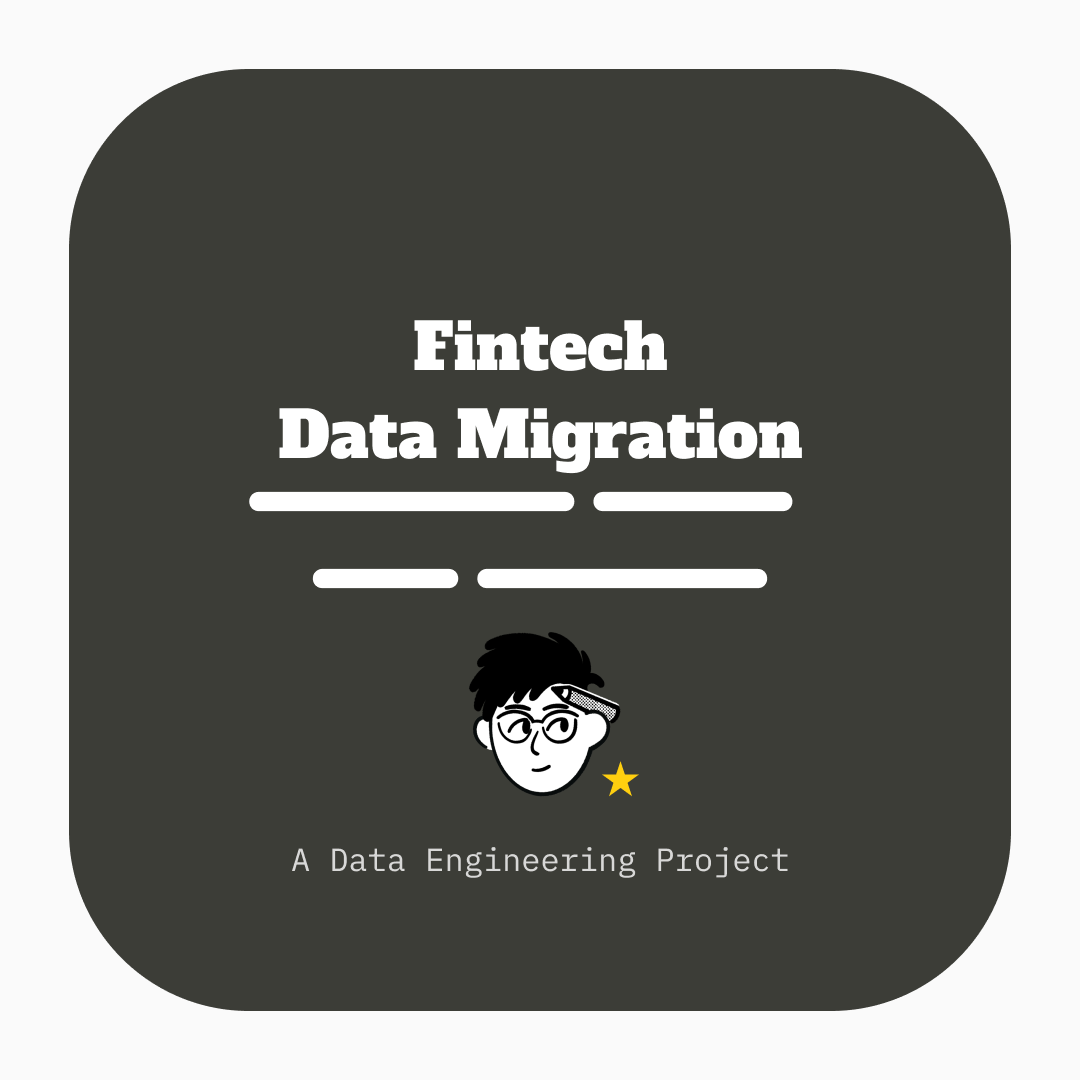
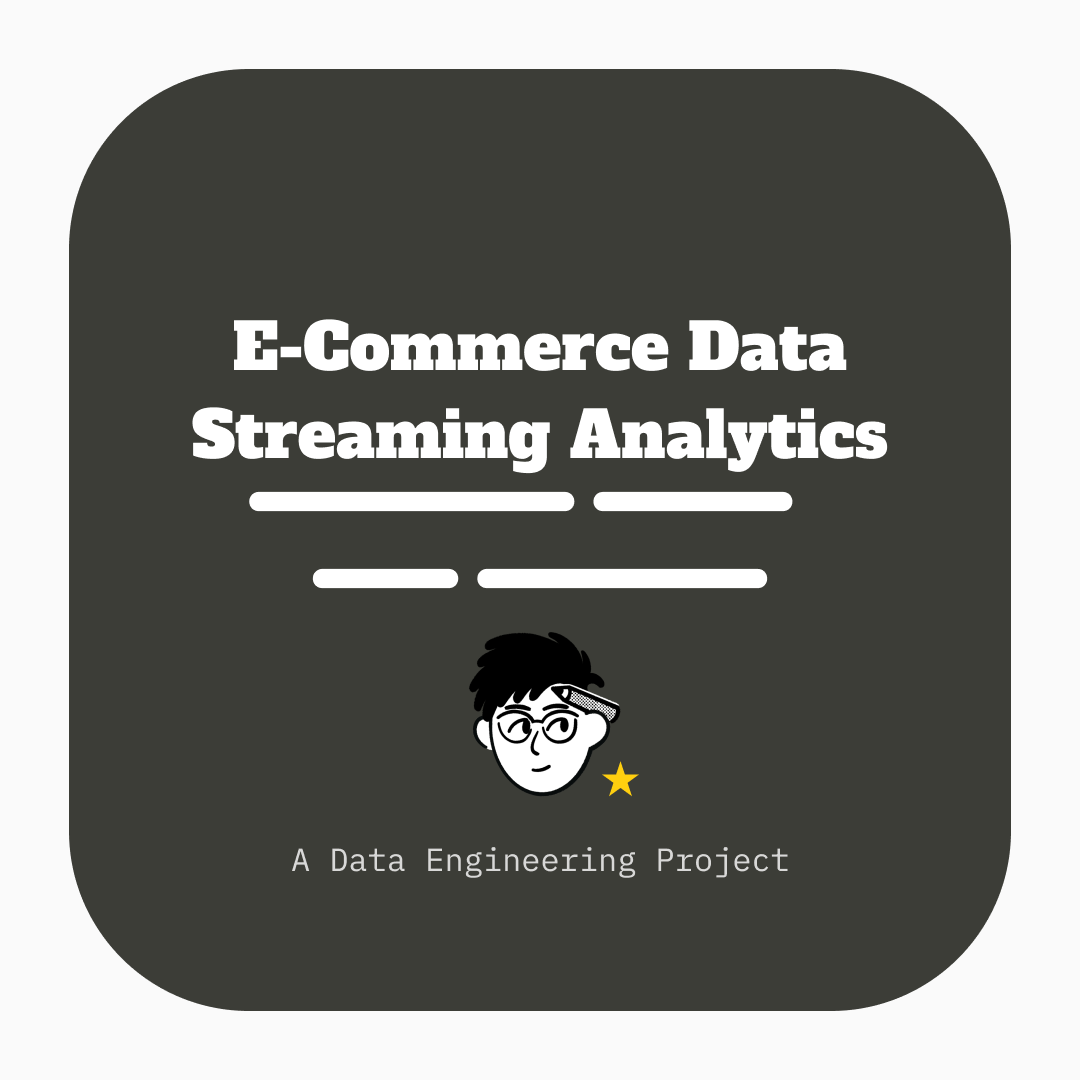
updated project-2 and index.html

Changed region(s): [[0.1833, 0.275, 0.825, 0.4583]]

diff --git a/404.html b/404.html
@@ -1,0 +1,57 @@
+<!DOCTYPE html>
+<html lang="en">
+<head>
+    <meta charset="UTF-8">
+    <meta name="viewport" content="width=device-width, initial-scale=1.0">
+    <title>404 Not Found</title>
+    <link rel="stylesheet" href="https://cdnjs.cloudflare.com/ajax/libs/font-awesome/6.0.0-beta3/css/all.min.css">
+    <link href="https://fonts.googleapis.com/css2?family=JetBrains+Mono:wght@400;700&display=swap" rel="stylesheet">
+    <style>
+        body {
+            font-family: 'JetBrains Mono', monospace;
+            text-align: center;
+            background-color: #fff;
+            color: #000;
+            display: flex;
+            justify-content: center;
+            align-items: center;
+            height: 100vh;
+            margin: 0;
+        }
+        h1 {
+            font-size: 100px;
+            margin: 20px 0 0 0;
+            color: #000;
+        }
+        p {
+            font-size: 20px;
+            margin: 10px 0;
+        }
+        a {
+            color: #000;
+            text-decoration: none;
+            font-weight: bold;
+        }
+        a:hover {
+            text-decoration: underline;
+        }
+        .container {
+            max-width: 600px;
+            margin: 0 auto;
+        }
+        .error-icon {
+            font-size: 150px;
+            color: #000;
+            margin-bottom: 20px;
+        }
+    </style>
+</head>
+<body>
+    <div class="container">
+        <div class="error-icon">Oops!</div>
+        <h1>404</h1>
+        <p>Oops! The page you are looking for does not exist.</p>
+        <p><a href="/"><i class="fas fa-home"></i> Go back to the homepage</a></p>
+    </div>
+</body>
+</html>

diff --git a/index.html b/index.html
@@ -417,17 +417,17 @@
                 class="project-img"
               />
             </div>
-            <h2 class="experience-sub-title project-title">Fintech Data Migration Pipeline</h2>
+            <h2 class="experience-sub-title project-title">E-Commerce Data Streaming Analytics</h2>
             <div class="btn-container">
               <button
                 class="btn btn-color-2 project-btn"
-                onclick="window.open('https://github.com/tahir007malik/fintechDataMigration', '_blank')"
+                onclick="window.open('https://github.com/tahir007malik/ecommerceDataStreamingAnalytics', '_blank')"
               >
                 Github
               </button>
               <button
                 class="btn btn-color-2 project-btn"
-                onclick="window.open('https://youtu.be/adW2WUgc55s', '_blank')"
+                onclick="window.open('https://youtu.be/2NZTa6HGbE4', '_blank')"
               >
                 Live Demo
               </button>
